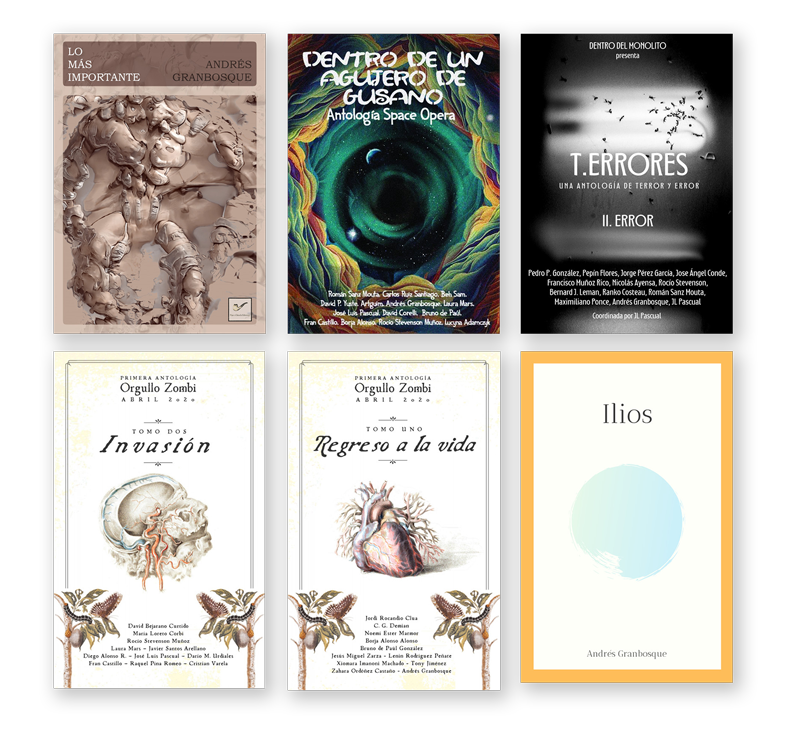
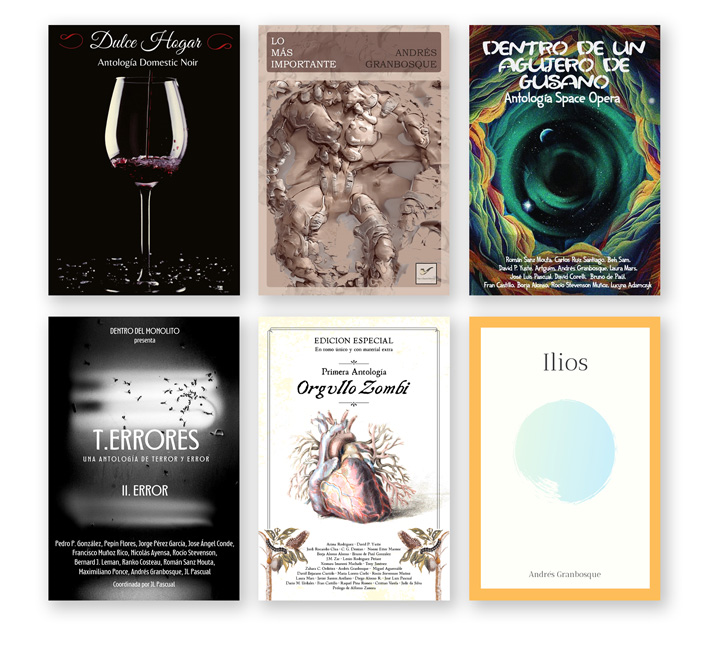
about+draft

diff --git a/about/index.html b/about/index.html
@@ -123,7 +123,18 @@
 
 <p>En estos momentos me encuentro trabajando en <a href="/2019/10/23/el-enemigo-comun-hormigas/">mi primera novela</a>, y tengo publicados algunos relatos. En orden cronológico inverso:</p>
 
-<h2 id="dentro-de-un-agujero-de-gusano">Dentro de un agujero de gusano</h2>
+<h2 id="talento">Talento</h2>
+<h3 id="relato-incluído-en-dulce-hogar">Relato incluído en <em>Dulce Hogar</em></h3>
+
+<p><a href="https://lektu.com/l/avenida-noir/dulce-hogar-antologia-domestic-noir/15569"><img src="/assets/img/dulcehogar.jpg" alt="Portada de la antología Dulce Hogar" class="align-left" /></a>
+“Dulce Hogar” es la primera antología coordinada por Avenida Noir, basada en el <strong>terror cotidiano</strong> y el <strong>domestic noir</strong>. Uno de los 10 relatos que la constituyen es de mi autoría y se llama <strong>«Talento»</strong>.</p>
+
+<p>El relato tiene elementos de misterio, intriga y género policiaco. También está narrado de una forma un tanto experimental que supuso un reto muy divertido.</p>
+
+<p>Te puedes descargar la antología <em>gratis</em> (con pago social) aquí 👉 <a href="https://lektu.com/l/avenida-noir/dulce-hogar-antologia-domestic-noir/15569">Lektu</a></p>
+
+<h2 id="equilibrio">Equilibrio</h2>
+<h3 id="relato-incluído-en-dentro-de-un-agujero-de-gusano">Relato incluído en <em>Dentro de un agujero de gusano</em></h3>
 
 <p><a href="https://lektu.com/l/rocio-stevenson-munoz/dentro-de-un-agujero-de-gusano/14688"><img src="/assets/img/spaceopera.jpg" alt="Portada de la antología dentro de un agujero de gusano" class="align-left" /></a>
 Antología de relatos de <em>Space Opera</em> alternativa, coordinada por Lucyna Adamczyk y Rocío Stevenson Muñoz que reúne 12 relatos (y una «zarzuela espacial») de varios autores.</p>
@@ -143,18 +154,21 @@ Este relato es, probablemente, lo más excéntrico que haya escrito. Inspirado e
 
 <p>En 2020 he coordinado la primera antología de relatos <em>Orgullo Zombi</em>. He tenido la suerte y el honor de poder colaborar con autores que han aportado historias originales y variadas, que le han dado una vuelta de tuerca al género. Está dividida en dos tomos y hay relatos de géneros diversos (terror, acción, comedia, humor, drama…). Se puede descargar gratuitamente en formato electrónico en <a href="https://lektu.com/e/orgullo-zombi/1839" target="_blank">Lektu</a> y en <a href="http://orgullozombi.es">http://orgullozombi.es</a></p>
 
-<p><a href="http://orgullozombi.es" target="_blank"><img src="/assets/img/oz.jpg" alt="Portadas de la antología Orgullo Zombi" /></a></p>
+<p>Recientemente se ha publicado también la edición en papel, que puedes encontrar en <a href="https://www.amazon.es/Orgullo-Zombi-Antolog%C3%ADa-Varios-Autores/dp/B08M83X184/ref=sr_1_1?__mk_es_ES=%C3%85M%C3%85%C5%BD%C3%95%C3%91&amp;dchild=1&amp;keywords=Orgullo+Zombi&amp;qid=1604232337&amp;s=books&amp;sr=1-1">Amazon</a></p>
+
+<p><a href="http://orgullozombi.es" target="_blank"><img src="/assets/img/papel.jpg" alt="Portadas de la antología Orgullo Zombi" /></a></p>
 <blockquote>
   <p>Más información sobre esat antología en <a href="http://orgullozombi.es" target="_blank">http://orgullozombi.es</a></p>
 </blockquote>
 
-<h3 id="antes-de-lo-previsto">Antes de lo previsto</h3>
+<h3 id="antes-de-lo-previsto">«Antes de lo previsto»</h3>
 
 <p>En la <em>Antología Orgullo Zombi</em> se incluye un relato de mi cosecha, llamado <em>Antes de lo previsto</em>. Es una historia que retuerce los conceptos de héroe y villano y que intenta que el lector pueda vislumbrar las dos caras que siempre tiene cualquier dilema. Está en el primer tomo de la antología.</p>
 
 <p>Además, escribí un artículo profundizando en el mundo en el que se ambienta la historia: <a href="/2020/05/15/las-cien-familias/">aquí</a>.</p>
 
 <h2 id="desagradecidos">Desagradecidos</h2>
+<h3 id="relato-incluído-en-terrores">Relato incluído en <em>T.Errores</em></h3>
 
 <p><img src="/assets/img/terrores1.jpg" alt="Portadas de la antología T.Errores" class="align-left" />
 <img src="/assets/img/terrores2.png" alt="Portadas de la antología T.Errores" class="align-left" />

diff --git a/assets/main.css b/assets/main.css
@@ -332,4 +332,8 @@ blockquote { margin-bottom: 3em; }
 
 .video-container iframe, .video-container object, .video-container embed { position: absolute; top: 0; left: 0; width: 100%; height: 100%; }
 
+.footnotes { position: relative; margin-top: 1em; padding-top: 1em; }
+
+.footnotes:before { content: ""; border-top: solid 1px #aaaaaa; height: 1em; width: 7em; position: absolute; top: 0; left: o; }
+
 /*# sourceMappingURL=main.css.map */
